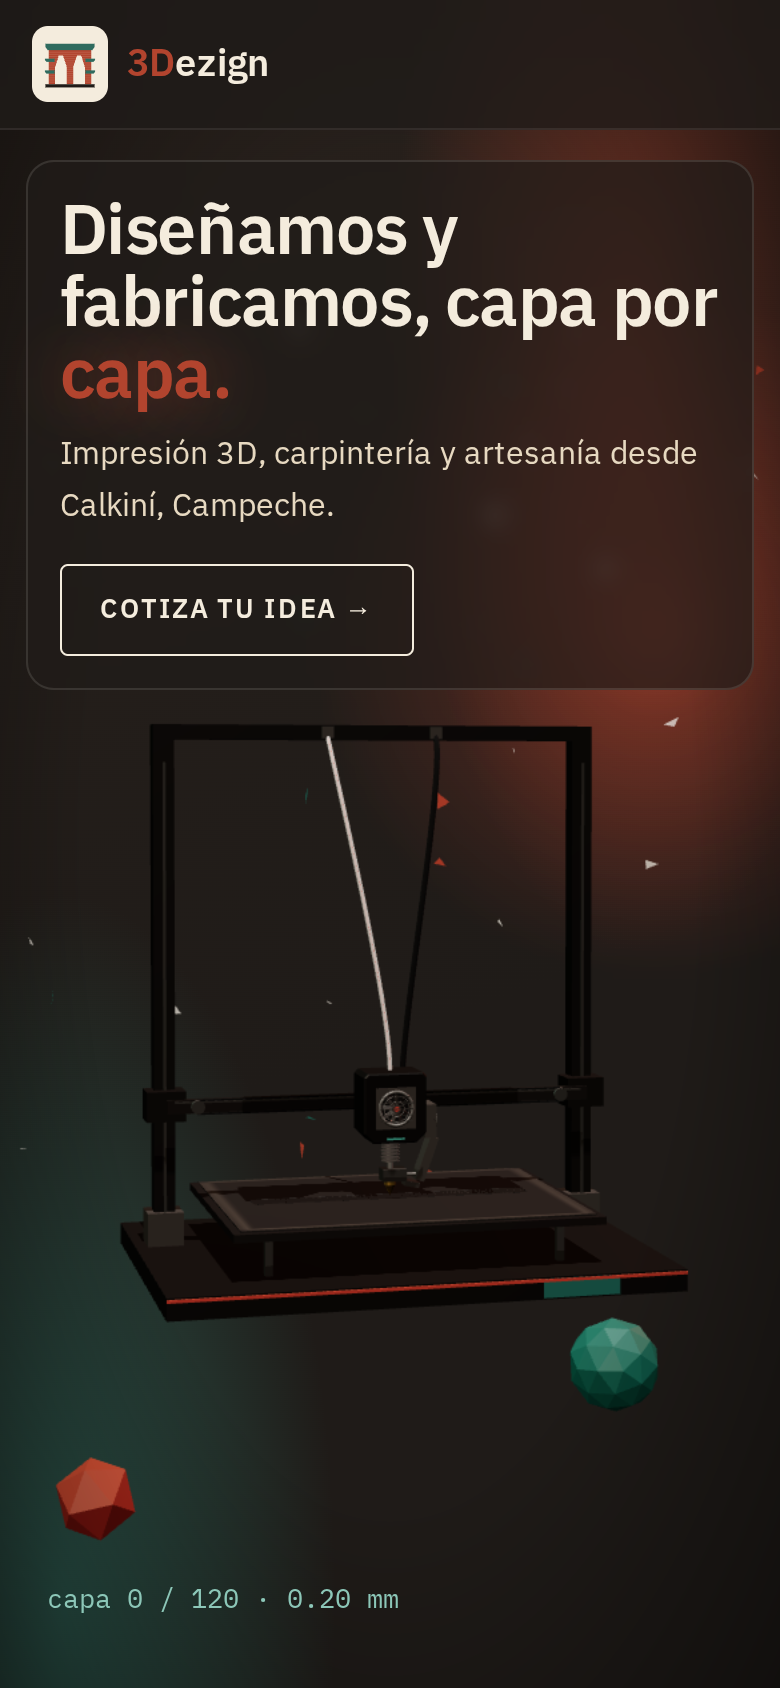
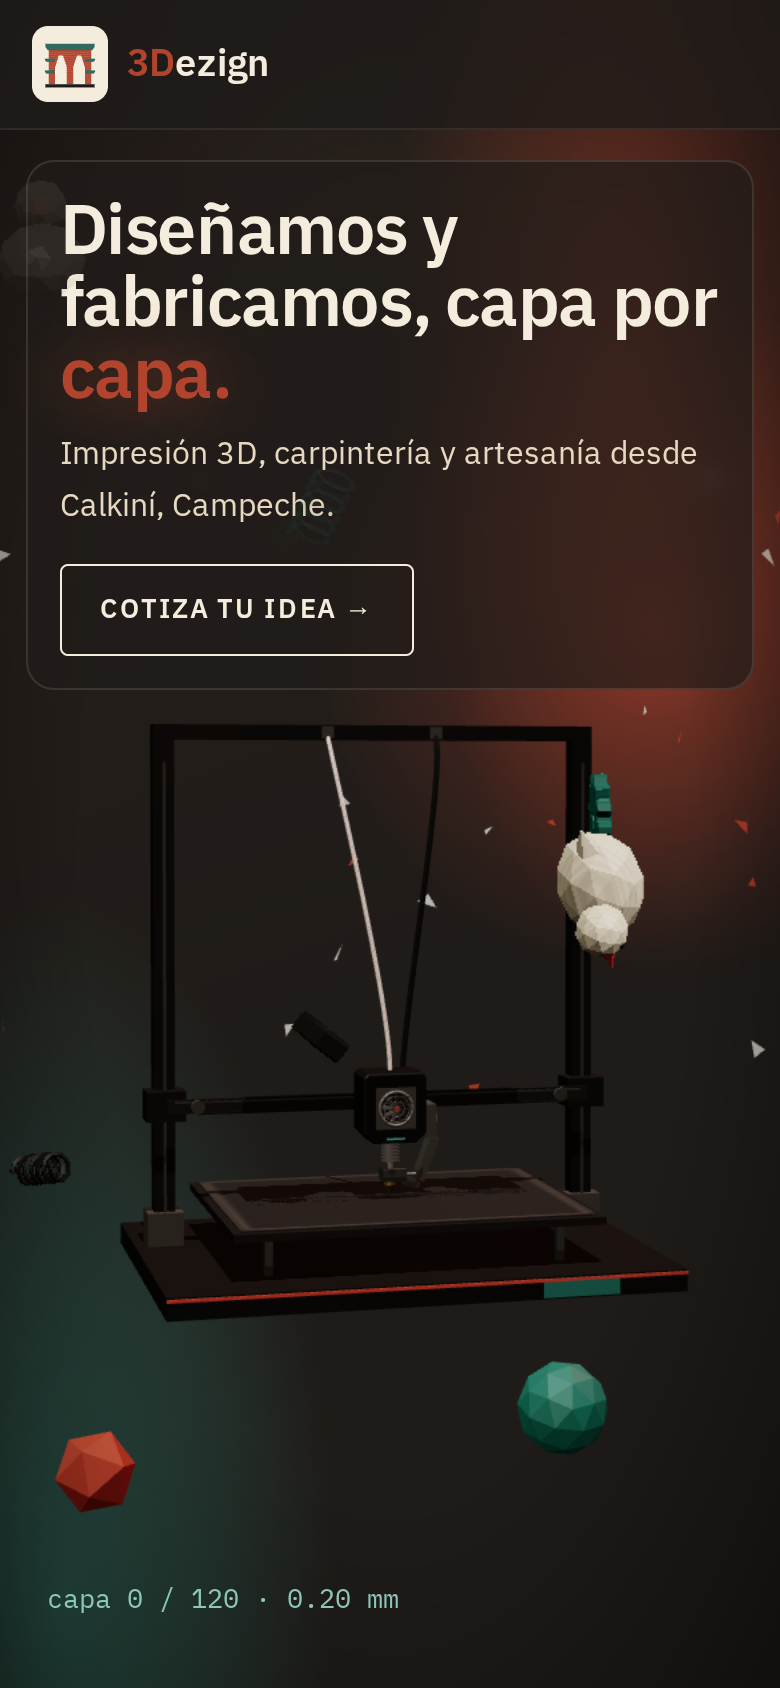
Objetos impresos (Benchy, patitos, engranes, tuerca, tornillo, bisagra, escuadra, brida, resortes) que cruzan con scroll; se desvanecen tras contenido; gema jade móvil a la izquierda

diff --git a/src/floaters.js b/src/floaters.js
@@ -1,0 +1,131 @@
+// Objetos impresos en 3D que cruzan la pantalla ligados al scroll.
+// Todo modelado aquí, low-poly y facetado (sin modelos externos). Solo colores de la paleta.
+import * as THREE from 'three';
+import { mergeGeometries } from 'three/examples/jsm/utils/BufferGeometryUtils.js';
+
+const css = n => getComputedStyle(document.documentElement).getPropertyValue(n).trim();
+
+// material con líneas de capa sutiles (bandas en Y local) y sombreado facetado
+function printMat(color) {
+  const m = new THREE.MeshStandardMaterial({ color, flatShading: true, roughness: 0.6, metalness: 0.05 });
+  m.onBeforeCompile = sh => {
+    sh.vertexShader = sh.vertexShader.replace('#include <common>', '#include <common>\nvarying float vLY;')
+      .replace('#include <begin_vertex>', '#include <begin_vertex>\nvLY = position.y;');
+    sh.fragmentShader = sh.fragmentShader.replace('#include <common>', '#include <common>\nvarying float vLY;')
+      .replace('#include <color_fragment>', '#include <color_fragment>\ndiffuseColor.rgb *= 0.9 + 0.1 * smoothstep(0.35, 0.65, fract(vLY * 22.0));');
+  };
+  return m;
+}
+const flat = g => { const n = g.index ? g.toNonIndexed() : g; n.computeVertexNormals(); return n; };
+const ext = (shape, depth, bevel = 0.02) => flat(new THREE.ExtrudeGeometry(shape, { depth, bevelEnabled: bevel > 0, bevelSize: bevel, bevelThickness: bevel, bevelSegments: 1, curveSegments: 6 }).center());
+const circlePath = (r, n = 10) => { const p = new THREE.Path(); for (let i = 0; i <= n; i++) { const a = i / n * Math.PI * 2; i ? p.lineTo(Math.cos(a) * r, Math.sin(a) * r) : p.moveTo(r, 0); } return p; };
+const at = (g, x = 0, y = 0, z = 0, rx = 0, ry = 0, rz = 0, s = 1) => { g = g.clone(); g.applyMatrix4(new THREE.Matrix4().compose(new THREE.Vector3(x, y, z), new THREE.Quaternion().setFromEuler(new THREE.Euler(rx, ry, rz)), new THREE.Vector3(s, s, s))); return flat(g); };
+
+function models(C) {
+  const M = {};
+  // --- Barquito estilo "benchy" (diseño propio): casco con proa, cabina con ventanas, techo y chimenea
+  const hullS = new THREE.Shape(); hullS.moveTo(-0.55, -0.25); hullS.lineTo(0.25, -0.25); hullS.quadraticCurveTo(0.6, -0.2, 0.7, 0); hullS.quadraticCurveTo(0.6, 0.2, 0.25, 0.25); hullS.lineTo(-0.55, 0.25); hullS.lineTo(-0.6, 0); hullS.closePath();
+  const hull = at(ext(hullS, 0.28, 0.04), 0, 0, 0, Math.PI / 2);
+  const deck = at(new THREE.BoxGeometry(0.9, 0.04, 0.42), -0.05, 0.16, 0);
+  const cabin = at(new THREE.BoxGeometry(0.42, 0.34, 0.4), -0.22, 0.35, 0);
+  const roof = at(new THREE.BoxGeometry(0.52, 0.05, 0.48), -0.22, 0.54, 0);
+  const chim = at(new THREE.CylinderGeometry(0.06, 0.07, 0.24, 8), -0.33, 0.68, 0);
+  const win = [at(new THREE.BoxGeometry(0.14, 0.12, 0.42), -0.15, 0.38, 0), at(new THREE.BoxGeometry(0.44, 0.12, 0.08), -0.22, 0.38, 0.0), at(new THREE.BoxGeometry(0.03, 0.14, 0.2), -0.005, 0.37, 0)];
+  M.benchy = [[mergeGeometries([hull, deck]), C.terracota], [mergeGeometries([cabin, roof]), C.terracota], [chim, C.carbon], [mergeGeometries(win.map(w => at(w, 0, 0, 0, 0, 0, 0, 1.0))), C.carbon]];
+  // ventanas: como cajas oscuras sobresaliendo levemente de la cabina (se ven en ambas caras)
+  M.benchy[3][0] = mergeGeometries([at(new THREE.BoxGeometry(0.12, 0.1, 0.41), -0.12, 0.38, 0), at(new THREE.BoxGeometry(0.12, 0.1, 0.41), -0.32, 0.38, 0), at(new THREE.BoxGeometry(0.43, 0.1, 0.12), -0.22, 0.38, 0), at(new THREE.CylinderGeometry(0.07, 0.07, 0.43, 10), -0.22, 0.38, 0, 0, 0, Math.PI / 2)]);
+  // --- Patito de hule (arena + pico terracota + ojos carbón)
+  const body = at(new THREE.IcosahedronGeometry(0.4, 1), 0, 0, 0, 0, 0, 0); body.scale(1.25, 0.8, 1);
+  const head = at(new THREE.IcosahedronGeometry(0.24, 1), 0.28, 0.42, 0);
+  const tail = at(new THREE.ConeGeometry(0.12, 0.25, 5), -0.5, 0.18, 0, 0, 0, Math.PI / 2.6);
+  const beak = at(new THREE.ConeGeometry(0.09, 0.22, 6), 0.56, 0.38, 0, 0, 0, -Math.PI / 2);
+  const eyes = mergeGeometries([at(new THREE.IcosahedronGeometry(0.035, 0), 0.42, 0.5, 0.15), at(new THREE.IcosahedronGeometry(0.035, 0), 0.42, 0.5, -0.15)]);
+  M.duck = [[mergeGeometries([flat(body), head, tail]), C.arena], [beak, C.terracota], [eyes, C.carbon]];
+  // --- Engrane con dientes
+  const gear = (R, teeth, hole) => { const s = new THREE.Shape(); const n = teeth * 4;
+    for (let i = 0; i <= n; i++) { const a = i / n * Math.PI * 2, r = (i % 4 < 2) ? R : R * 0.8; i ? s.lineTo(Math.cos(a) * r, Math.sin(a) * r) : s.moveTo(r, 0); }
+    s.holes.push(circlePath(hole, 6)); return ext(s, 0.14, 0.015); };
+  M.gear = [[gear(0.5, 12, 0.14), C.jade]];
+  M.gear2 = [[gear(0.34, 9, 0.1), C.terracota]];
+  // --- Tuerca hexagonal y perno
+  const hex = r => { const s = new THREE.Shape(); for (let i = 0; i <= 6; i++) { const a = i / 6 * Math.PI * 2; i ? s.lineTo(Math.cos(a) * r, Math.sin(a) * r) : s.moveTo(r, 0); } return s; };
+  const nutS = hex(0.3); nutS.holes.push(circlePath(0.14, 8)); M.nut = [[ext(nutS, 0.16, 0.02), C.carbon]];
+  const bHead = at(ext(hex(0.22), 0.14, 0.015), 0, 0.42, 0, Math.PI / 2);
+  const shaft = at(new THREE.CylinderGeometry(0.1, 0.1, 0.8, 8), 0, 0, 0);
+  const thread = at(new THREE.TubeGeometry(new THREE.CatmullRomCurve3(Array.from({ length: 49 }, (_, i) => new THREE.Vector3(Math.cos(i * 0.8) * 0.105, -0.38 + i * 0.012, Math.sin(i * 0.8) * 0.105))), 60, 0.018, 4), 0, 0, 0);
+  M.bolt = [[mergeGeometries([bHead, shaft, thread]), C.arena]];
+  // --- Bisagra: dos hojas con barriles intercalados y perno
+  const leaf = at(new THREE.BoxGeometry(0.42, 0.04, 0.6), 0, 0, 0);
+  const holesL = [0.18, -0.18].map(z => at(new THREE.CylinderGeometry(0.05, 0.05, 0.05, 8), 0.06, 0, z));
+  const knA = [-0.24, 0.0, 0.24].map((z, i) => at(new THREE.CylinderGeometry(0.07, 0.07, 0.11, 10), -0.24, 0.02, z, Math.PI / 2));
+  M.hinge = [[mergeGeometries([at(leaf, 0.0, 0, 0), knA[0], knA[2]]), C.jade], [mergeGeometries([at(leaf, -0.46, 0.08, 0, 0, 0, -0.5), knA[1]]), C.terracota], [mergeGeometries([at(new THREE.CylinderGeometry(0.025, 0.025, 0.66, 6), -0.24, 0.02, 0, Math.PI / 2), ...holesL]), C.carbon]];
+  // --- Soporte en L / brida con agujeros
+  const L = new THREE.Shape(); L.moveTo(-0.4, -0.4); L.lineTo(0.4, -0.4); L.lineTo(0.4, -0.26); L.lineTo(-0.26, -0.26); L.lineTo(-0.26, 0.4); L.lineTo(-0.4, 0.4); L.closePath();
+  const flS = new THREE.Shape(); flS.absarc(0, 0, 0.42, 0, Math.PI * 2); flS.holes.push(circlePath(0.15, 10)); [0, 1, 2, 3].forEach(i => { const a = i * Math.PI / 2 + Math.PI / 4, h = circlePath(0.05, 6); h.translate?.(0, 0); const p = new THREE.Path(); for (let k = 0; k <= 6; k++) { const b = k / 6 * Math.PI * 2, x = Math.cos(a) * 0.29 + Math.cos(b) * 0.05, y = Math.sin(a) * 0.29 + Math.sin(b) * 0.05; k ? p.lineTo(x, y) : p.moveTo(x, y); } flS.holes.push(p); });
+  M.bracket = [[ext(L, 0.3, 0.02), C.terracota]];
+  M.flange = [[ext(flS, 0.1, 0.015), C.arena]];
+  // --- Resorte helicoidal
+  const helix = Array.from({ length: 121 }, (_, i) => { const a = i / 120 * Math.PI * 2 * 6; return new THREE.Vector3(Math.cos(a) * 0.22, -0.45 + i / 120 * 0.9, Math.sin(a) * 0.22); });
+  M.spring = [[flat(new THREE.TubeGeometry(new THREE.CatmullRomCurve3(helix), 160, 0.035, 5)), C.jade]];
+  M.spring2 = [[flat(new THREE.TubeGeometry(new THREE.CatmullRomCurve3(helix.map(v => new THREE.Vector3(v.x * 0.7, v.y * 0.8, v.z * 0.7))), 160, 0.03, 5)), C.carbon]];
+  return M;
+}
+
+export function createFloaters(canvas, { reduced, avoid = '' }) {
+  const C = { terracota: css('--terracota'), jade: css('--jade'), arena: css('--arena'), carbon: css('--carbon'), crema: css('--crema') };
+  const mobile = window.innerWidth < 820;
+  const renderer = new THREE.WebGLRenderer({ canvas, antialias: !mobile, alpha: true, preserveDrawingBuffer: true });
+  renderer.setPixelRatio(Math.min(window.devicePixelRatio, mobile ? 1.25 : 1.5));
+  renderer.toneMapping = THREE.ACESFilmicToneMapping;
+  const scene = new THREE.Scene();
+  const camera = new THREE.PerspectiveCamera(35, 1, 0.1, 60); camera.position.z = 12;
+  scene.add(new THREE.HemisphereLight(0xfff5e6, 0x3a2e28, 1.6));
+  const key = new THREE.DirectionalLight(0xffffff, 2.2); key.position.set(3, 5, 6); scene.add(key);
+  const rim = new THREE.DirectionalLight(new THREE.Color(C.jade), 0.9); rim.position.set(-5, 2, -3); scene.add(rim);
+
+  const M = models(C), mats = {};
+  const kinds = ['benchy', 'duck', 'gear', 'spring', 'nut', 'hinge', 'duck', 'bolt', 'bracket', 'gear2', 'benchy', 'flange', 'spring2', 'duck', 'gear', 'spring'];
+  const list = mobile ? ['benchy', 'duck', 'gear', 'spring', 'nut', 'duck', 'spring2'] : kinds;
+  const objs = list.map((k, i) => {
+    const g = new THREE.Group(); for (const [geo, c] of M[k]) { const m = (mats[c] ??= printMat(c)).clone(); m.onBeforeCompile = mats[c].onBeforeCompile; m.transparent = true; g.add(new THREE.Mesh(geo, m)); } // geometría compartida, sin sombras
+    const z = -1 - (i * 2.3 % 5);                     // profundidad → parallax
+    const side = i % 2 ? 1 : -1;                         // entra por izquierda o derecha
+    g.userData = { a: 1, z, side, off: i / list.length, speed: 0.9 + (i * 0.37 % 0.5), curve: 0.6 + (i * 0.53 % 1.2), spin: new THREE.Vector3(0.6 + i % 3 * 0.3, 1 + i % 2, 0.3), base: (mobile ? 0.55 : 0.95) * (0.85 + (i * 0.29 % 0.4)) };
+    g.scale.setScalar(g.userData.base); scene.add(g); return g;
+  });
+  let p = 0, W = 1, H = 1;
+  function layout() { const w = innerWidth, h = innerHeight; renderer.setSize(w, h, false); camera.aspect = w / h; camera.updateProjectionMatrix(); W = w; H = h; }
+  addEventListener('resize', layout); layout();
+  // posición en pantalla: cruza en diagonal curva de un lado al otro; t∈[0,1] por scroll
+  const halfAt = z => { const d = camera.position.z - z, hh = Math.tan(THREE.MathUtils.degToRad(camera.fov / 2)) * d; return [hh * camera.aspect, hh]; };
+  function place(o, prog, t) {
+    const u = o.userData, [hw, hh] = halfAt(u.z);
+    const f = ((prog * u.speed * 3 + u.off) % 1 + 1) % 1;             // cada objeto cruza ~3 veces en la página, escalonado
+    const x = THREE.MathUtils.lerp(-1.25, 1.25, f) * hw * u.side;
+    const y = (THREE.MathUtils.lerp(0.9, -0.9, f) + Math.sin(f * Math.PI * u.curve) * 0.35 * u.side) * hh * (mobile ? 0.85 : 1);
+    o.position.set(x, y, u.z);
+    const r = prog * 12 + u.off * 6;
+    o.rotation.set(r * u.spin.x * 0.5, r * u.spin.y * 0.5 + t * 0.15, r * u.spin.z * 0.5);
+  }
+  // legibilidad: si un objeto pasa por detrás de un titular, texto, botón, tarjeta o formulario, se desvanece casi por completo
+  const v = new THREE.Vector3();
+  function fade(o, rects, instant) {
+    v.copy(o.position).project(camera);
+    const sx = (v.x + 1) / 2 * W, sy = (1 - v.y) / 2 * H, [, hh] = halfAt(o.userData.z), rad = o.userData.base * 0.75 / hh * H / 2 + 10;
+    const hit = rects.some(r => sx + rad > r.left && sx - rad < r.right && sy + rad > r.top && sy - rad < r.bottom);
+    const target = hit ? 0.08 : 1; o.userData.a = instant ? target : o.userData.a + (target - o.userData.a) * 0.2;
+    o.visible = o.userData.a > 0.02;
+    o.traverse(m => { if (m.material) { m.material.opacity = o.userData.a; m.material.depthWrite = o.userData.a > 0.9; } });
+  }
+  const els = avoid ? [...document.querySelectorAll(avoid)] : [];
+    function visibleRects() { const out = []; for (const e of els) { const r = e.getBoundingClientRect(); if (r.bottom < 0 || r.top > H || !r.width) continue; if (+getComputedStyle(e).opacity < 0.1) continue; out.push(r); } return out; }
+  function render(prog, t = 0, instant = false) { const rects = visibleRects(); for (const o of objs) { place(o, prog, t); fade(o, rects, instant); } renderer.render(scene, camera); }
+  if (reduced) { // quietos: posiciones fijas en los márgenes, un solo render
+    const fixed = mobile ? [[-0.85, -0.55], [0.85, -0.7], [-0.85, 0.55]] : [[-0.88, 0.6], [0.9, -0.65], [-0.9, -0.7], [0.88, 0.45]];
+    objs.forEach((o, i) => { const f = fixed[i]; o.visible = !!f; if (!f) return; const [hw, hh] = halfAt(o.userData.z); o.position.set(f[0] * hw, f[1] * hh, o.userData.z); o.rotation.set(0.4, 0.6 + i, 0.1); });
+    const rr = visibleRects(); objs.forEach(o => o.visible && fade(o, rr, true));
+    renderer.render(scene, camera); addEventListener('resize', () => renderer.render(scene, camera));
+    return { setProgress() {}, tick() {} };
+  }
+  return { setProgress(v) { p = v; }, tick(t) { render(p, t); } };
+}

diff --git a/src/main.js b/src/main.js
@@ -4,6 +4,7 @@ import gsap from 'gsap';
 import { ScrollTrigger } from 'gsap/ScrollTrigger';
 import Lenis from 'lenis';
 import { createScene } from './scene.js';
+import { createFloaters } from './floaters.js';
 gsap.registerPlugin(ScrollTrigger);
 
 const reduced = window.matchMedia('(prefers-reduced-motion: reduce)').matches;
@@ -11,6 +12,7 @@ const marca = c.marca.nombre.replace(/^3D/, '<b>3D</b>');
 const iso = '/02_isotipo.svg';
 
 document.querySelector('#app').innerHTML = `
+<canvas id="floaters" aria-hidden="true"></canvas>
 <a class="skip" href="#main">Saltar al contenido</a>
 <header class="nav">
   <a class="brand" href="#hero" aria-label="${c.marca.nombre}, inicio"><img src="${iso}" alt="" width="38" height="38"><span>${marca}</span></a>
@@ -66,6 +68,7 @@ document.querySelector('form').addEventListener('submit', e => {
   e.preventDefault(); document.querySelector('.aviso').textContent = c.contacto.avisoForm;
 });
 
+const floaters = createFloaters(document.querySelector('#floaters'), { reduced, avoid: '.hero-copy, .hero-final, .s h2, .s .lead, .eyebrow, .card, .mono, .pending, form, .canales, .split img' });
 const scene = createScene(document.querySelector('#scene'), { reduced });
 const capa = document.querySelector('#capa');
 const final = document.querySelector('.hero-final');
@@ -89,6 +92,10 @@ if (reduced) {
     },
   });
   window.__hero = st;
+  // objetos impresos cruzando: progreso de toda la página con scrub
+  const fp = { v: 0 };
+  ScrollTrigger.create({ trigger: document.body, start: 'top top', end: 'bottom bottom', onUpdate: self => gsap.to(fp, { v: self.progress, duration: 0.8, ease: 'power2.out', overwrite: true }) });
+  gsap.ticker.add(t => { floaters.setProgress(fp.v); floaters.tick(t); });
   // entrada del hero
   gsap.from('.hero-copy > *', { opacity: 0, y: 30, duration: 1, ease: 'power3.out', stagger: 0.12, delay: 0.2 });
   gsap.utils.toArray('.card').forEach((el, i) => gsap.set(el, { opacity: 0, y: 40 }));

diff --git a/src/scene.js b/src/scene.js
@@ -205,7 +205,7 @@ export function createScene(canvas, { reduced }) {
     placeCamera(0);
     floor.position.copy(printer.position);
     // móvil: solo 2 gemas pequeñas en la franja libre bajo la impresora (ni tras la tarjeta ni tras la impresora)
-    const mob = [[-1.9, -1.7, -0.5, 0.28], [2.0, -1.45, -1.2, 0.34]];
+    const mob = [[-1.9, -1.7, -0.5, 0.28], [1.6, -1.45, -1.2, 0.34]];
     gems.forEach((g, i) => { const u = g.userData, m = mob[i];
       if (mobile) { g.visible = !!m; if (m) { g.position.set(m[0], m[1], m[2]); u.y = m[1]; g.scale.setScalar(m[3] / u.r); } }
       else { g.visible = true; g.position.set(u.x, u.y = u.y0, u.z); g.scale.setScalar(1); } });

diff --git a/src/style.css b/src/style.css
@@ -67,3 +67,7 @@ footer{background:var(--carbon);color:var(--arena);text-align:center;padding:2re
 @media (prefers-reduced-motion:reduce){.card{transition:none}.card:hover{transform:none}}
 #impresion{background:linear-gradient(to bottom,var(--carbon) 0,#4a3a30 3rem,#a8927a 7rem,var(--arena) 11rem);padding-top:calc(clamp(4rem,10vw,7rem) + 8rem)}
 #hero{box-shadow:none}
+#floaters{position:fixed;inset:0;width:100vw;height:100vh;z-index:1;pointer-events:none}
+.hero-copy,.hero-final,.progress{z-index:3}
+section.s .wrap{position:relative;z-index:2}
+footer{position:relative;z-index:2}
